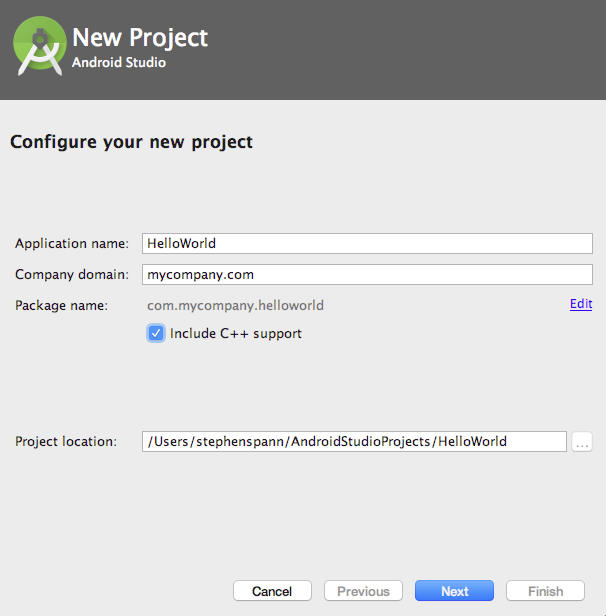
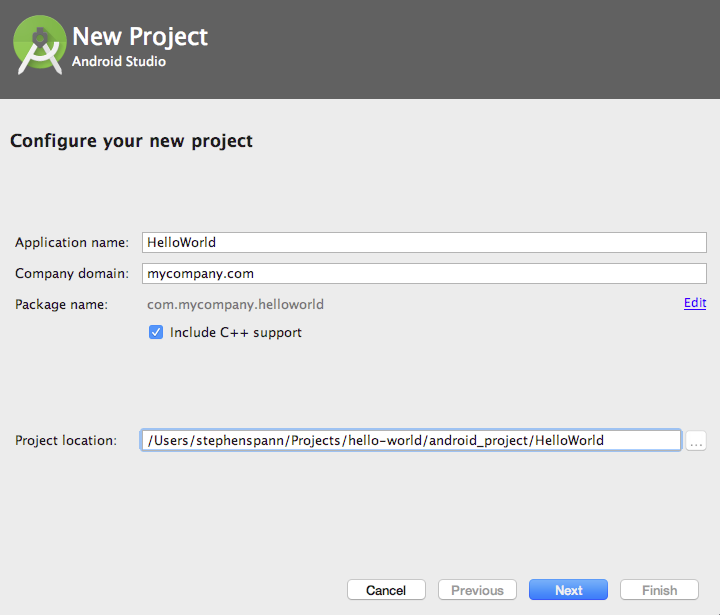
updates to android studio setup wizard

diff --git a/docs/_posts/2017-09-17-hello-world-app-part-3.md b/docs/_posts/2017-09-17-hello-world-app-part-3.md
@@ -8,34 +8,42 @@ redirect_from:
   - /your-first-cross-platform-djinni-app-part-3-android/
 ---
 
-In the third and final part of this tutorial, we will setup our initial Android project, build a JNI library from our Djinni files, include the library in our Android project and finally publish to a device/simulator.
-
-**January 26, 2016:**
-This tutorial was updated to use the experimental Gradle plugin instead of building libraries with GYP.
+In the third and final part of this tutorial, we will setup our Android project to include our JNI bridge and C++ functionality from Part 1, then finally publish to a device/simulator.
 
 ## Create a New Android Project
 
 Open up Android Studio, and select ‘Start a new Android Studio project’ from the Quick Start menu on the splash screen, or select **File > New > New Project** from the top navigation.
 
-On the info screen, enter the following:
+On the info screen, enter the following, being sure the package name and Project location match the screenshot below:
 
-Application Name: Hello World
+* 'HelloWorld' for the Application name
+* 'mycompany.com' for the Company domain
+* Check 'Include C++ support'
+* Project location is '<your project directory>/android_project/HelloWorld' (This is important so we can use relative file paths to our C++ and JNI code)
 
-Company Domain: mycompany.com
+![Android New Project]({{ "/assets/images/hello-world-part-3/android_new_project.png" | prepend:site.baseurl }} "Android New Project")
 
-Project Location: Create a new folder inside your project, here I’ve chosen ‘android_project’ to be consistent with our other Xcode project naming:
+On the second screen, keep the defaults ('Phone and Tablet' checkbox selected, Minimum SDK API 15):
 
-![Android Studio New Project]({{ "/assets/images/hello-world-part-3/AS_new_project.png" | prepend:site.baseurl }} "Android Studio New Project")
+![Android Target Devices]({{ "/assets/images/hello-world-part-3/android_target_devices.png" | prepend:site.baseurl }} "Android Target Devices")
 
-*Be sure to set the company domain to ‘mycompany.com’. This is utilized in your java package name which is used in other scripts in this tutorial.*
+On the third screen, keep the default 'Empty Activity' selected:
 
-For the remaining screens in the wizard (Form Factors, Add an Activity, and Customize the Activity), just click ‘Next’ or ‘Finish’ to keep the defaults.
+![Android Empty Activity]({{ "/assets/images/hello-world-part-3/android_empty_activity.png" | prepend:site.baseurl }} "Android Empty Activity")
 
-Publish the app to make sure it works, selecting either an Android device connected to your machine or an available simulator. You’ll see “Hello World” in an otherwise blank Android screen when the app runs, but don’t get too excited because we still need to implement our C++ code!
+On the fourth screen, keep the default Activity Name 'MainActivity' and Layout Name 'activity_main':
 
-*If this is the first time you are publishing to an Android device, you may need to enable USB debugging on the device (should get a popup on the device).*
+![Android Customize Activity]({{ "/assets/images/hello-world-part-3/android_customize_activity.png" | prepend:site.baseurl }} "Android Customize Activity")
 
-## Configure the Experimental Gradle Build
+On the fifth screen, select 'C++11' for the C++ Standard, and check both the 'Exceptions Support' and 'Runtime Type Information Support' so we have all of the C++ goodies that Android Studio has to offer:
+
+![Android Customize C++]({{ "/assets/images/hello-world-part-3/android_customize_cpp.png" | prepend:site.baseurl }} "Android Customize C++")
+
+Click 'Finish' to complete the wizard, then publish the app to either a simulator or a device with the 'Play' button near the top of the screen to make sure everything is working. You should see a white screen with 'Hello from C++' displayed, but don’t get too excited yet because we still need to implement our C++ code!
+
+## Customize the Gradle Build
+
+Android studio will now handle the CMake build for us, we just have to configure Gradle to point to our C++ and JNI source files.
 
 We will utilize the experimental gradle plugin with Android Studio which provides a bit more C++ support when compiling the project (without the need for makefiles or GYP).
 
